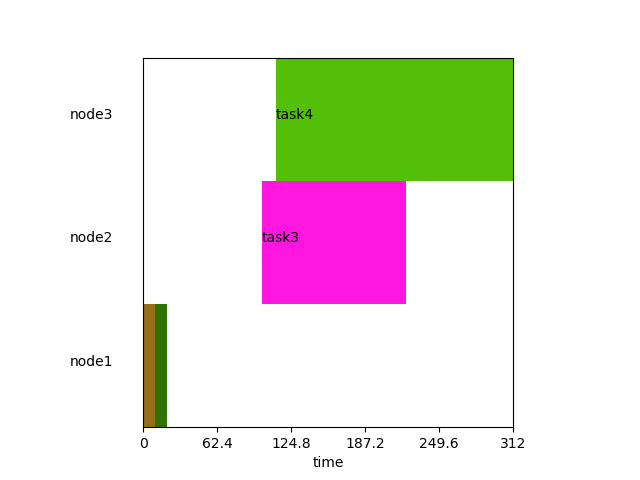
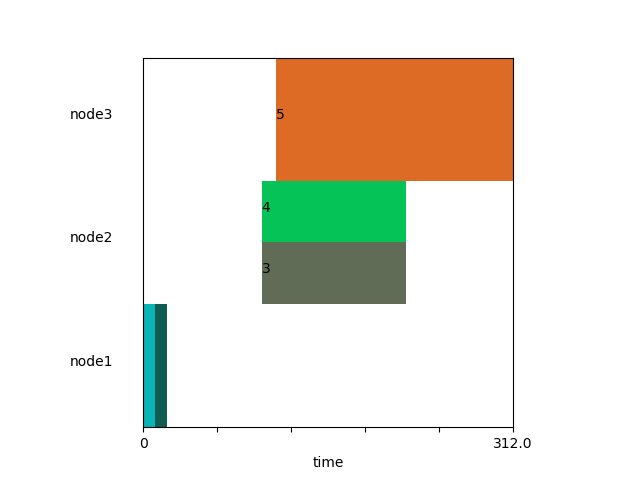
Now handles concurrent tasks properly

diff --git a/gantt.py b/gantt.py
@@ -6,6 +6,7 @@ import matplotlib.patches as patches
 import json
 import argparse
 
+
 def main():
     parser = argparse.ArgumentParser("Prints a Gantt chart for computing tasks")
     parser.add_argument("tasks_json", action="store",
@@ -28,27 +29,41 @@ def main():
             node_index[task['node']] = len(node_index)
     n_nodes = len(node_index)
 
+    # Determine max number of concurrent tasks in nodes
+    overlaps = {}
+    for t in tasks_json:
+        overlaps[t['id']] = []
+        for u in tasks_json:
+            if not (t['node'] != u['node'] or t['end-time'] <= u['start-time'] or u['end-time'] <= t['start-time']):
+                overlaps[t['id']].append(u)
+        overlaps[t['id']].sort(key=lambda x: x['id'])
+
+    # Plot figure
     fig = plt.figure()
     ax1 = fig.add_subplot(111, aspect='equal')
 
     # Axes
     ax1.set_xlabel("time")
     ax1.get_yaxis().set_visible(False)
-    ax1.axes.xaxis.set_ticklabels([0, max_end_time/5.0, 2*max_end_time/5.0, 3*max_end_time/5.0, 4*max_end_time/5.0, max_end_time])
+    ax1.axes.xaxis.set_ticklabels([0, "", "", "", "", round(max_end_time)])
     for node in node_index.keys():
         ax1.text(-0.2, 1.0/n_nodes*node_index[node]+0.5/n_nodes, node)
 
     # Tasks
     for task in tasks_json:
         task_duration = task['end-time']-task['start-time']
+        height = 1.0/(n_nodes*len(overlaps[task['id']]))
+        width = task_duration/float(max_end_time)
+        x = task['start-time']/float(max_end_time)
+        y = 1.0/n_nodes*node_index[task['node']] + overlaps[task['id']].index(task)*height
         ax1.add_patch(patches.Rectangle(
-            (task['start-time']/float(max_end_time), 1.0/n_nodes*node_index[task['node']]),  # (x,y)
-            task_duration/float(max_end_time),  # width
-            1.0/n_nodes,  # height
+            (x, y),  # (x,y)
+            width,  # width
+            height,  # height
             facecolor = (random(), random(), random())
         ))
         if task_duration/float(max_end_time) > 0.1: # add names of tasks that represent more than 10% of the makespan
-            ax1.text(task['start-time']/float(max_end_time), 1.0/n_nodes*(node_index[task['node']]+0.5), task['name'])
+            ax1.text(x, y+0.5*height, task['id'])
 
     fig.savefig(results.output_file)
 

diff --git a/README.md b/README.md
@@ -8,12 +8,14 @@ Tasks must be written in a JSON file with the following syntax:
     "tasks": [
        {
             "name": "task1",
+            "id": 0,
             "start-time": 0,
             "end-time": 10,
             "node": "node1"
         },
         {
             "name": "task2",
+            "id": 1,
             "start-time": 10,
             "end-time": 20,
             "node": "node1"
